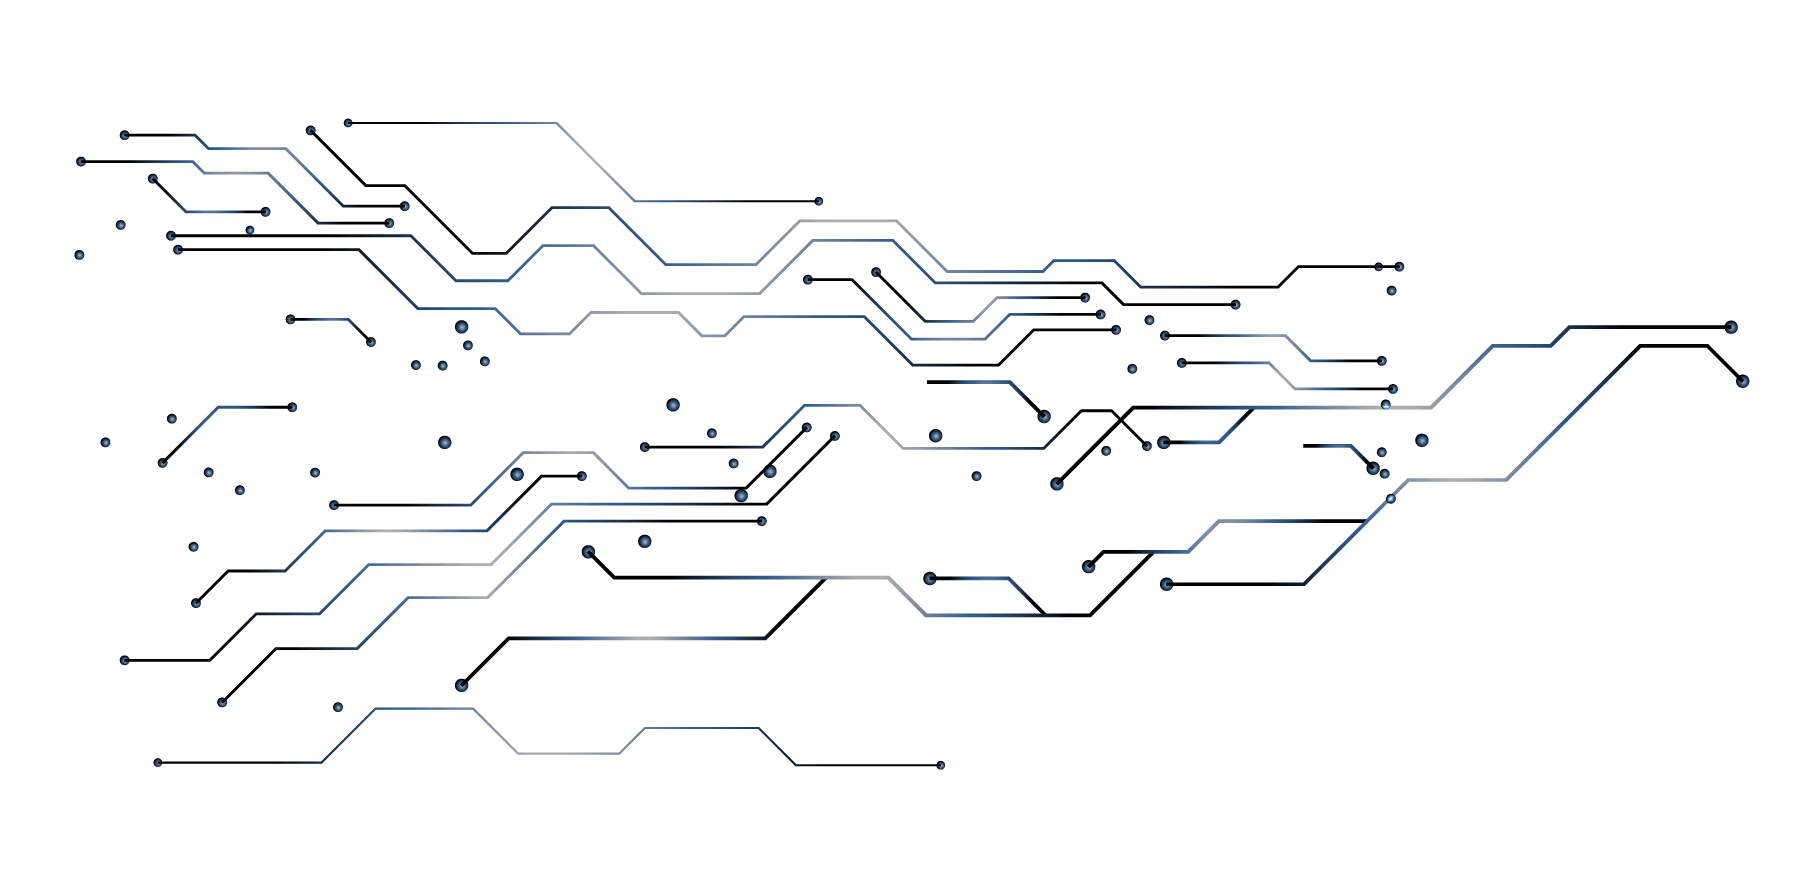
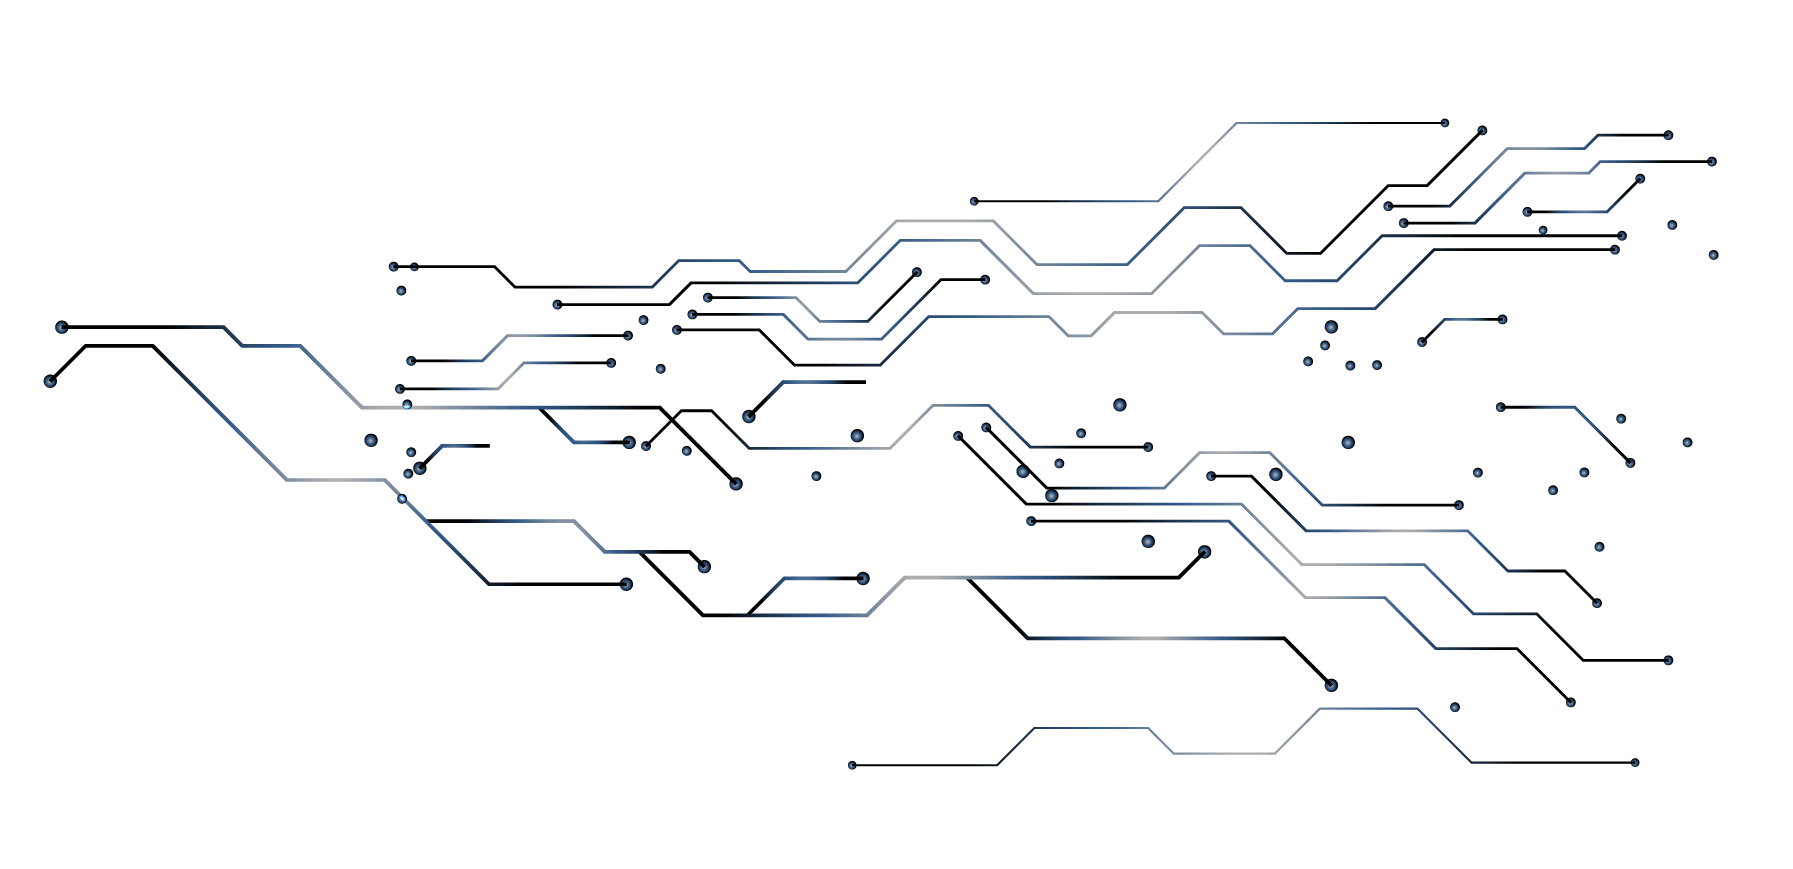
Update bacground images

diff --git a/style.css b/style.css
@@ -116,17 +116,17 @@ h2 {
 }
 
 .bg1 {
-  background: url("images/bg_uma-min.png") left center no-repeat;
+  background: url("images/bg_uma-min.png") right center no-repeat;
   background-size: contain;
   height: 104vh;
   width: 104vw;
-  margin-left: -2vw;
+  margin-right: -2vw;
   margin-top: -2vh;
   background-blend-mode: color-dodge;
   mix-blend-mode: color-dodge;
 }
 .bg3 {
-  background: url("images/bg3.png") left center no-repeat;
+  background: url("images/bg3.png") right center no-repeat;
   min-height: 100vh;
   width: 100%;
   background-size: cover;
@@ -135,12 +135,12 @@ h2 {
   top: 0;
   left: 0;
   width: 100vw;
-  margin-left: -4vw;
+  margin-right: -4vw;
   opacity: 0;
   animation: show_lines 1.2s cubic-bezier(0.2, 0.6, 0.2, 1) forwards;
 }
 .bg2 {
-  background: url("images/bg4.png") left center no-repeat;
+  background: url("images/bg4.png") right center no-repeat;
   min-height: 100vh;
   width: 100%;
   background-size: cover;
@@ -149,7 +149,7 @@ h2 {
   top: 0;
   left: 0;
   width: 100vw;
-  margin-left: -4vw;
+  margin-right: -4vw;
   opacity: 0;
   animation: show_lines 1.2s cubic-bezier(0.2, 0.6, 0.2, 1) forwards;
 }
@@ -271,17 +271,11 @@ h2 {
   font-weight: 600;
   margin-left: 70px;
 }
-.rus .category,
-.rus .footer {
-  -webkit-animation: show_rustext 1s ease-in-out;
-  animation: show_rustext 1s ease-in-out;
+.content_center__block{
+  -webkit-animation: show_rustext .8s ease-in-out;
+  animation: show_rustext .8s ease-in-out;
 }
 
-.eng .category,
-.eng .footer {
-  -webkit-animation: show_engtext 1s ease-in-out;
-  animation: show_engtext 1s ease-in-out;
-}
 .form_block {
   background: rgba(2, 8, 149, 0.8);
   padding: 45px 70px;
@@ -338,6 +332,9 @@ h2 {
   font-weight: 600;
   width: 60%;
   margin-right: 5%;
+}
+.content_center-bottom.mobile {
+  display: none;
 }
 input {
   height: 45px;
@@ -538,10 +535,19 @@ input {
   .form_block {
     padding: 32px 35px;
   }
+  .point {
+    width: 20px;
+    height: 20px;
+  }
+  .point::before {
+    width: 12px;
+    height: 12px;
+  }
 }
 
 @media (max-width: 768px) {
-  body,html {
+  body,
+  html {
     height: auto;
     overflow-x: hidden;
     overflow-y: auto;
@@ -608,7 +614,7 @@ input {
   .form-description {
     font-size: 20px;
   }
-  .form-description{
+  .form-description {
     margin-bottom: 35px;
   }
   .content_right__block {
@@ -622,14 +628,14 @@ input {
     width: 100%;
     margin-right: 0;
     margin-top: 20px;
-}
-  .content_center-bottom{
-      display: none;
+  }
+  .content_center-bottom {
+    display: none;
   }
   .content_center-bottom.mobile {
     display: block;
     font-size: 15px;
-    width: 100%;    
+    width: 100%;
     margin-top: 35px;
   }
   .content_bottom {
@@ -637,7 +643,7 @@ input {
     margin-top: 0;
     margin-left: -5vw;
     width: 100vw;
-}
+  }
   .category__item {
     font-size: 20px;
     margin-top: 22px;
@@ -651,13 +657,13 @@ input {
     width: 9px;
     height: 9px;
   }
-  .form_block{
+  .form_block {
     padding: 35px 0px;
     width: 90%;
     margin: 0 auto;
     background: none;
   }
-  .form_bottom{
+  .form_bottom {
     margin-top: 30px;
   }
   .footer {

diff --git a/index.html b/index.html
@@ -7,7 +7,7 @@
             name="viewport"
             content="width=device-width, initial-scale=1, shrink-to-fit=no"
         />
-        <title>Uma.Challenge</title>
+        <title>Uma.Challenge – всероссийский студенческий online challenge</title>
         <link
             rel="apple-touch-icon"
             href="favicon192x192.png"
@@ -32,16 +32,16 @@
             sizes="192x192"
         />
 
-        <meta property="og:title" content="Сайт Uma.Challenge" />
+        <meta property="og:title" content="Uma.Challenge – всероссийский студенческий online challenge" />
         <meta
             property="og:description"
-            content="Официальный сайт российской технологической компании Uma.Tech"
+            content="Докажи, что ты лучший и выиграй стажировку в компании Uma.Tech!"
         />
-        <meta property="og:url" content="https://uma.tech" />
+        <meta property="og:url" content="https://challenge.uma.tech" />
         <meta property="og:type" content="website" />
         <meta
             name="description"
-            content="Российская технологическая компании Uma.Tech, основана в 2015 году."
+            content="Докажи, что ты лучший и выиграй стажировку в компании Uma.Tech!"
         />
         <meta name="keywords" content="it,hardware,highload,tech,bigdata" />
         <link
@@ -68,28 +68,6 @@
     </head>
 
     <body>
-        <script>
-            function postToGoogle(googleURL, data) {
-                $.ajax({
-                    url: googleURL,
-                    data: data,
-                    type: "POST",
-                    dataType: "xml",
-                    statusCode: {
-                        0: function() {
-                            //Success message
-                        },
-                        200: function() {
-                            //Success Message
-                        }
-                    },
-
-                    error: function() {
-                        // actually throws an error, but does send properly
-                    }
-                });
-            }
-        </script>
         <div data-relative-input="true" id="scene">
             <div class="bg1" data-depth="0.2"></div>
             <div class="bg2" data-depth="0.3"></div>

diff --git a/js/main.js b/js/main.js
@@ -9,15 +9,31 @@ $(function () {
     var catWidth = $(".content_center__block").width();
 });
 
-var formURL =
-  "https://docs.google.com/forms/d/15Ts8au3uporAAOmcPJAcHTpK91t2kIAjej0djfHfxE4/formResponse?";
+var formURL = "/";
+var formElement = document.querySelector(".form");
+var formData = new FormData(formElement);
+const sendBtn = document.querySelector('.buttonsend');
 
-sendBtn.onclick = function() {
-  var data = {
-    "entry.779126364": document.getElementById("entry.779126364").value,
-    "entry.1039583708": document.getElementById("entry.1039583708").value
-  };
-  $("#form").hide();
-  postToGoogle(formURL, data);
-  // loadSheet.click();
+sendBtn.onclick = function () {
+    sendDataForm(formURL, formData);
 };
+
+function sendDataForm(url, data) {
+    console.log(99)
+    fetch(url, {
+        method: 'post',
+        body: data
+    })
+        .then(function (response) {
+            if (response.status !== 200) {
+                console.log(
+                    'Looks like there was a problem. Status Code: ' +
+                    response.status
+                );
+                return;
+            }
+            return response.json()
+        }).then(function (data) {
+            console.log(JSON.stringify(data))
+        });
+}
